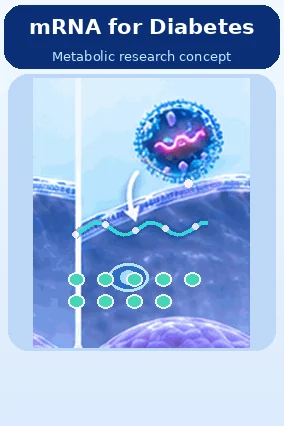
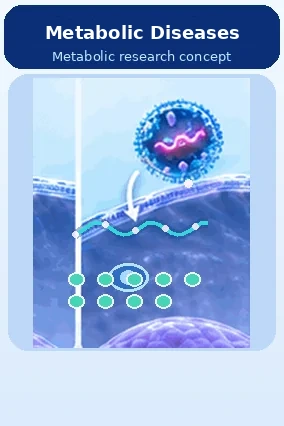
Rename Metabolic Diseases animation card

Changed region(s): [[0.0845, 0.0305, 0.9014, 0.0915]]

diff --git a/index.html b/index.html
@@ -87,7 +87,7 @@
     </figure>
     <figure class="nexus-therapy-gallery__card">
       <picture><source media="(prefers-reduced-motion: reduce)" srcset="assets/nexus-therapy-diabetes-still.webp" type="image/webp">
-        <img src="assets/nexus-therapy-diabetes.gif" alt="Investigational research animation: mRNA-based metabolic protein expression as a possible approach to diabetes therapy" width="284" height="426" loading="lazy" decoding="async"></picture>
+        <img src="assets/nexus-therapy-diabetes.gif" alt="Animated research concept: RNA delivery and functional protein expression for metabolic diseases" width="284" height="426" loading="lazy" decoding="async"></picture>
     </figure>
     <figure class="nexus-therapy-gallery__card" aria-label="CRISPR mRNA research animation">
       <picture><source media="(prefers-reduced-motion: reduce)" srcset="assets/nexus-therapy-crispr-still.webp" type="image/webp">
